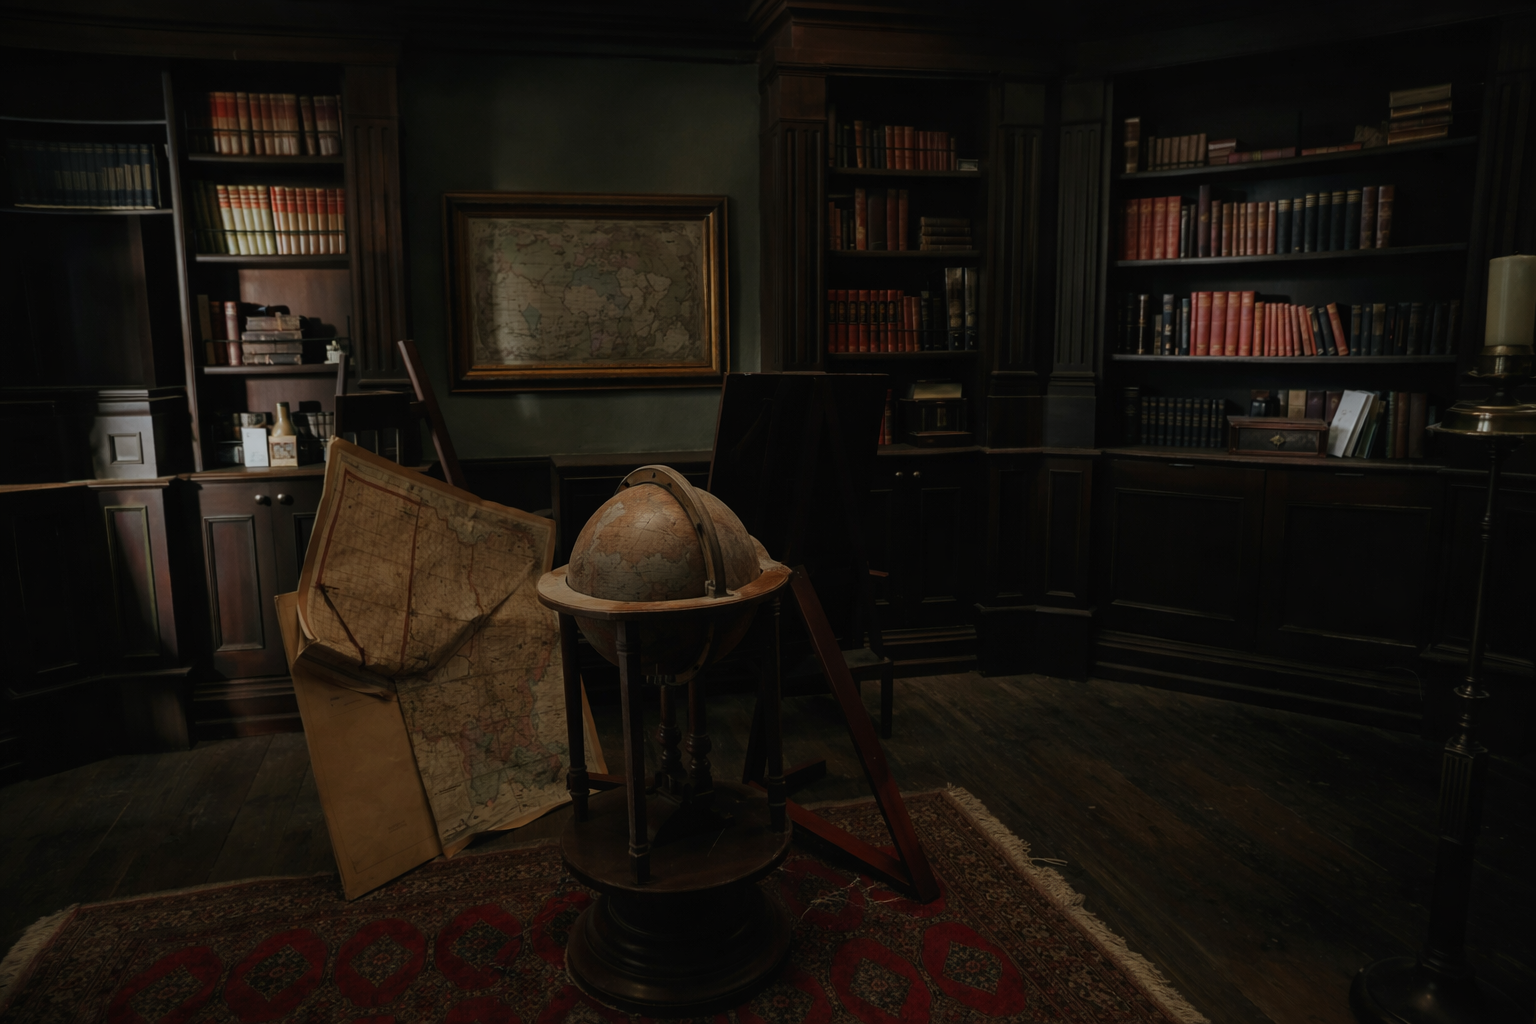
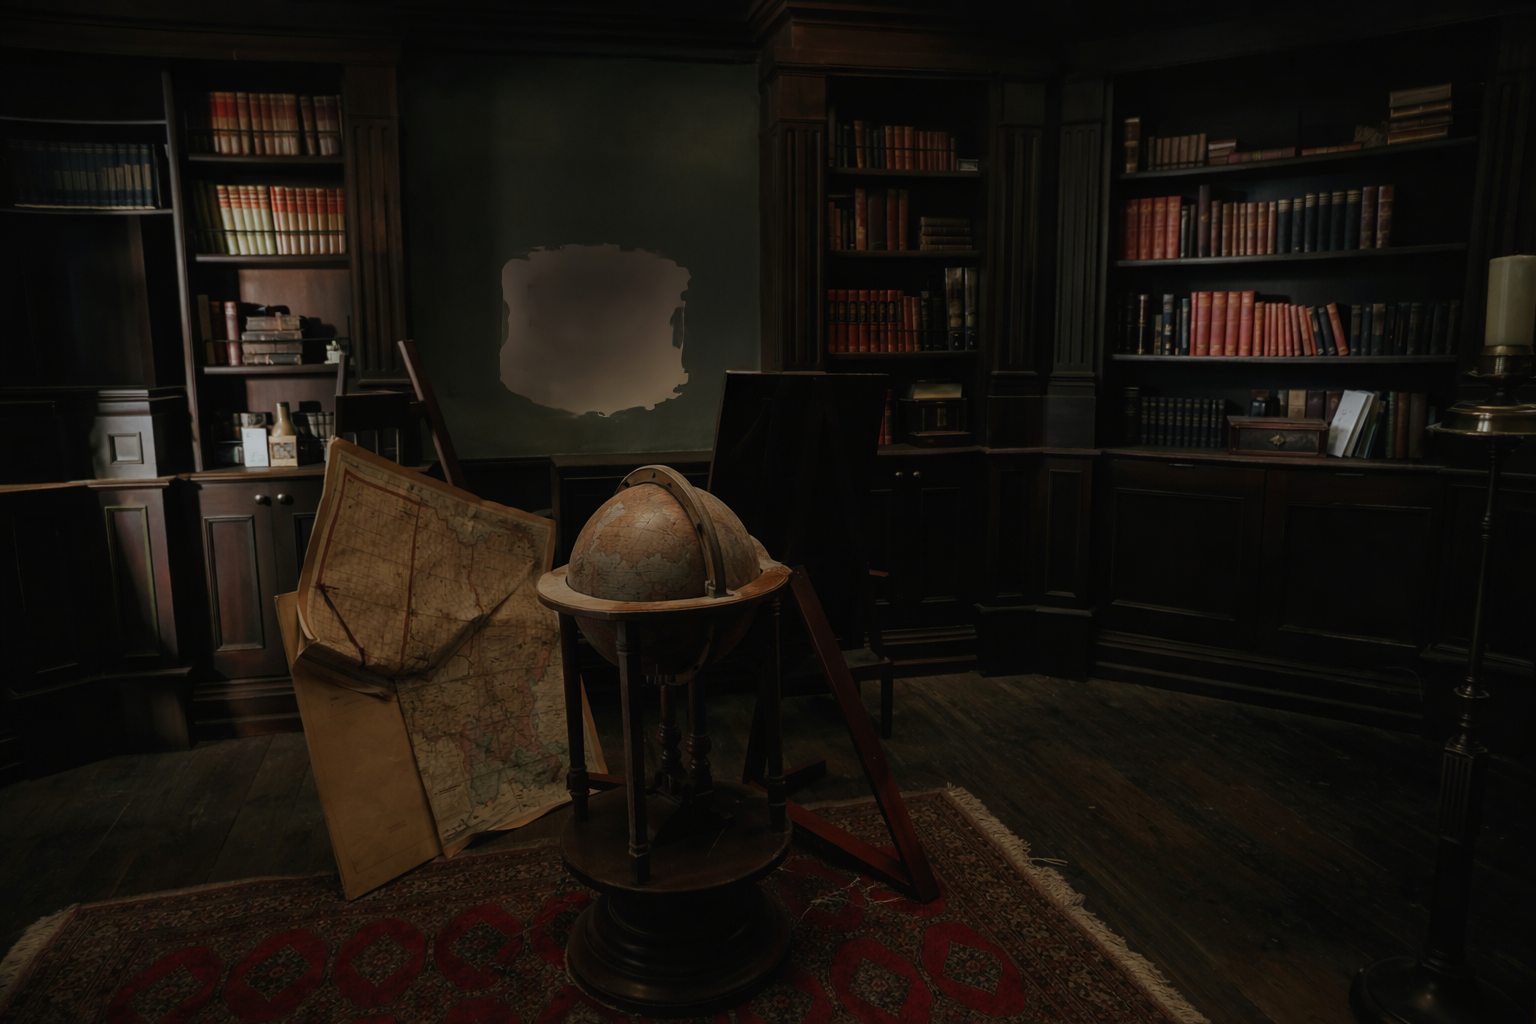
1.1.png ausgetauscht, css werte angepasst

Changed region(s): [[0.2812, 0.1875, 0.5, 0.4062]]

diff --git a/project/style.css b/project/style.css
@@ -273,8 +273,8 @@ nav img {
     display: none;
     position: absolute;
     top: 33vh;
-    left: 36vw;
-    width: 5vw;
+    left: 35vw;
+    width: 8vw;
     cursor: pointer;
 }
 
